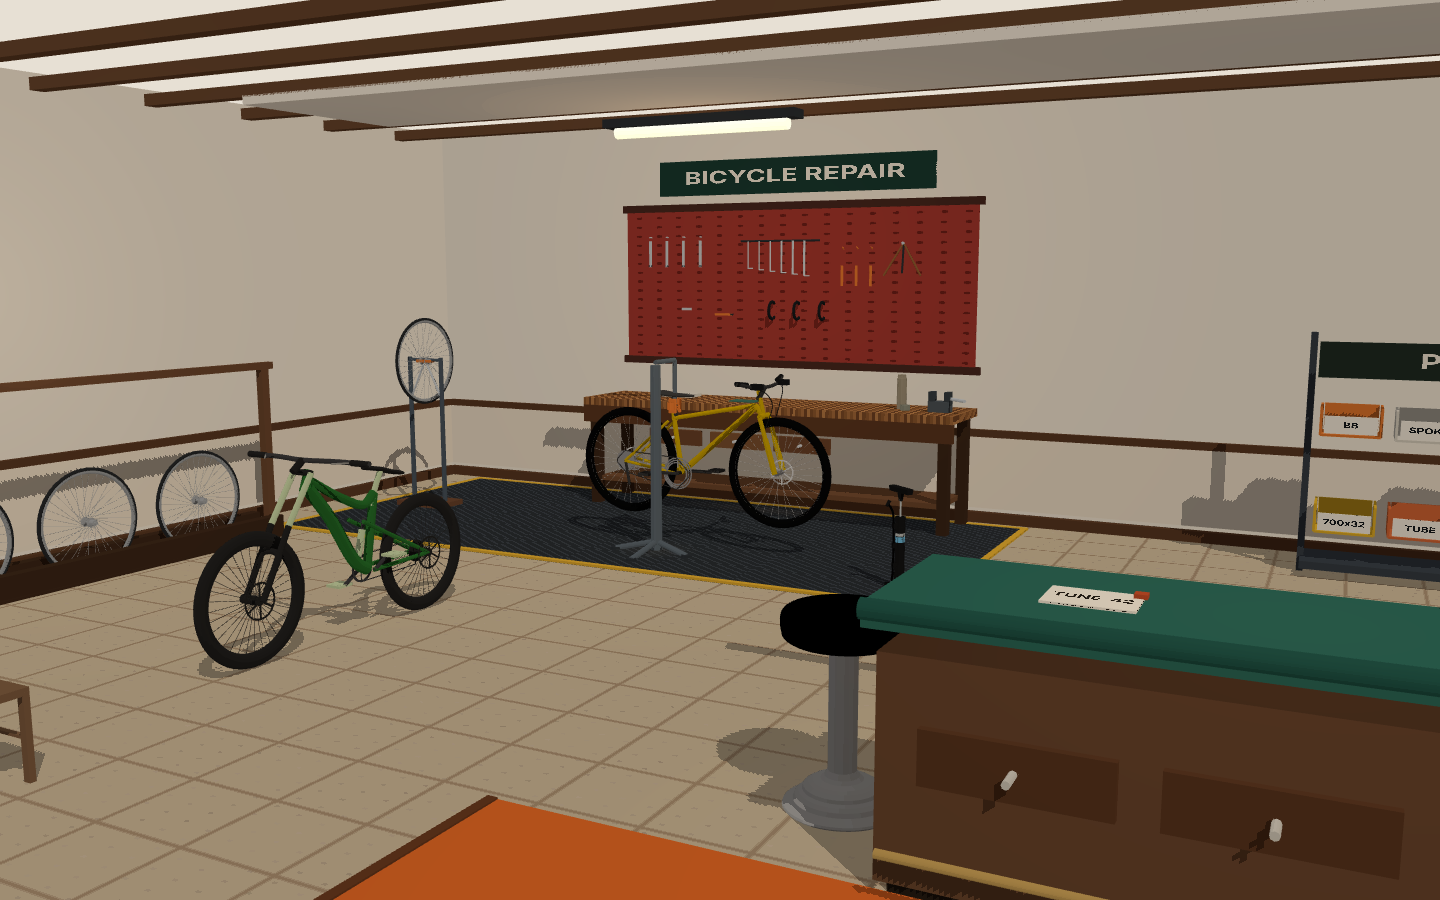
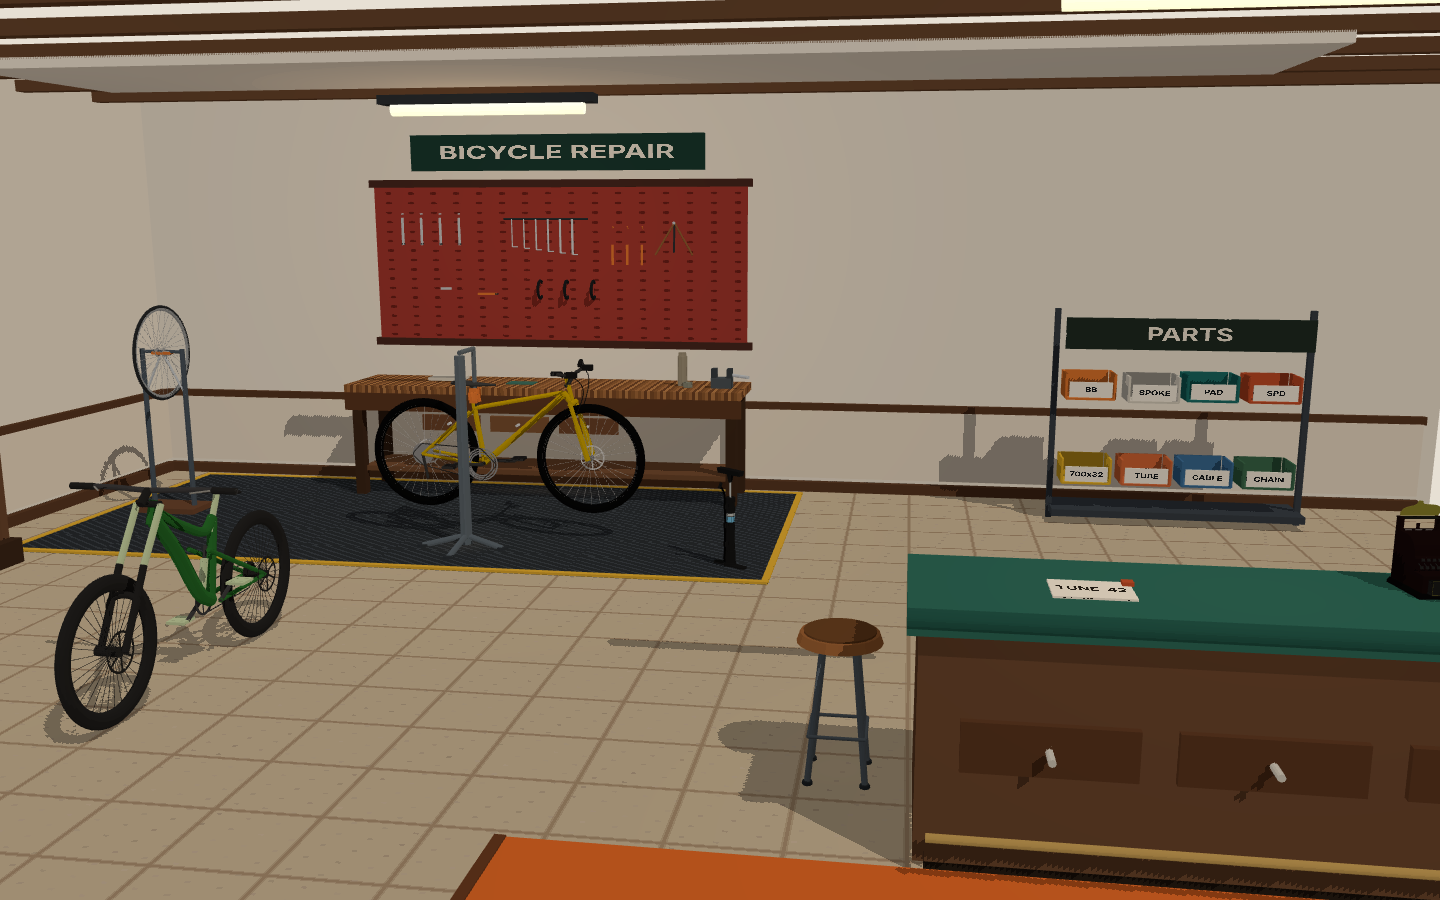
Replace the cafe stool and reframe the repair shots.
The staff perch is a four-leg shop stool at the counter return. The default view gives the repair bay and parts rack more of the frame, and the close view shows the seatpost clamp with both wheels.

diff --git a/experiments/indoor30-20261113/bicycle-repair/bicycle.js b/experiments/indoor30-20261113/bicycle-repair/bicycle.js
@@ -416,6 +416,35 @@ function bin(g, x, y, z, color, text) {
   tag.userData.noCast = true;
 }
 
+function shopStool(g, layout) {
+  const [x, , z] = layout.anchors.stool;
+  const stool = new THREE.Group();
+  stool.name = 'stool_staff';
+  const seatY = 0.58;
+  const wood = toon('#9a6236');
+  const rim = toon('#6a4324');
+  const steel = toon('#5c6770');
+  const dark = toon('#2c3136');
+  addCyl(stool, 0.158, 0.172, 0.04, wood, x, seatY, z, 24);
+  addCyl(stool, 0.145, 0.145, 0.012, rim, x, seatY + 0.022, z, 24);
+  const feet = [];
+  for (let i = 0; i < 4; i++) {
+    const a = (i / 4) * Math.PI * 2 + Math.PI / 4;
+    const top = [x + Math.cos(a) * 0.09, seatY - 0.02, z + Math.sin(a) * 0.09];
+    const foot = [x + Math.cos(a) * 0.16, 0.015, z + Math.sin(a) * 0.16];
+    rod(stool, top, foot, 0.013, steel, 8);
+    addCyl(stool, 0.02, 0.022, 0.014, dark, foot[0], 0.008, foot[2], 8);
+    feet.push(foot);
+  }
+  for (let i = 0; i < 4; i++) {
+    const a = feet[i];
+    const b = feet[(i + 1) % 4];
+    rod(stool, [a[0], 0.2, a[2]], [b[0], 0.2, b[2]], 0.007, steel, 6);
+  }
+  g.add(stool);
+  addContact(g, x, z, 0.4, 0.4, 0.14);
+}
+
 function serviceCounter(g, layout) {
   const c = layout.anchors.counter;
   const wood = toon('#5c3a24');
@@ -453,8 +482,9 @@ function makeProcedural(layout) {
   tireRack(g, layout);
   partsBins(g, layout);
   serviceCounter(g, layout);
+  shopStool(g, layout);
   for (const inst of layout.instances) {
-    if (inst.kind === 'dining_chair' || inst.kind === 'bar_stool') {
+    if (inst.kind === 'dining_chair') {
       addContact(g, inst.position[0], inst.position[2], 0.36, 0.36, 0.14);
     }
   }

diff --git a/experiments/indoor30-20261113/bicycle-repair/scene_lib.js b/experiments/indoor30-20261113/bicycle-repair/scene_lib.js
@@ -391,6 +391,10 @@ export async function boot(opts) {
     const p = presets[camKey];
     camera.position.set(...p.position);
     controls.target.set(...p.target);
+    if (p.fov) {
+      camera.fov = p.fov;
+      camera.updateProjectionMatrix();
+    }
     controls.update();
   }
 

diff --git a/experiments/indoor30-20261113/bicycle-repair/tests/test_layout.py b/experiments/indoor30-20261113/bicycle-repair/tests/test_layout.py
@@ -75,7 +75,6 @@ def test_instances_inside():
         "wheel_truing",
         "wheel_rack_a",
         "pump",
-        "stool_staff",
         "chair_wait_a",
         "chair_wait_b",
         "register",
@@ -95,13 +94,11 @@ def test_seats_face_the_work():
         fx, fz = forward_visual(yaw)
         dot = (fx * dx + fz * dz) / math.hypot(dx, dz)
         assert dot > 0.7, (chair_id, round(dot, 3))
-    staff = by_id["stool_staff"]
-    assert abs(abs(staff["rotationY"]) - math.pi) < 0.05
-    sx, _, sz = staff["position"]
-    tx, tz = staff["faces"]
-    assert tz > sz
-    # Counter is on the +X side of the waiting chairs.
+    # Shop stool is the staff perch at the counter return, off the customer runner.
     counter = LAYOUT["anchors"]["counter"]
+    stool = LAYOUT["anchors"]["stool"]
+    assert stool[0] < counter["x"] - 0.8
+    assert abs(stool[2] - counter["z"]) < 0.8
     assert counter["x"] > by_id["chair_wait_a"]["position"][0] + 1.5
 
 
@@ -117,10 +114,12 @@ def test_customer_route():
     assert runner["x0"] <= x0 <= runner["x1"]
     assert runner["z0"] <= z1 and z0 <= runner["z1"]
     half = route["width"] / 2
-    for inst in LAYOUT["instances"]:
-        x, _, z = inst["position"]
+    blocked = [(inst["id"], inst["position"]) for inst in LAYOUT["instances"]]
+    blocked.append(("stool_staff", LAYOUT["anchors"]["stool"]))
+    for name, pos in blocked:
+        x, _, z = pos
         if z1 - 0.3 <= z <= z0 + 0.2 and abs(x - x0) < half:
-            raise AssertionError(f"{inst['id']} sits in the customer route")
+            raise AssertionError(f"{name} sits in the customer route")
     stand = LAYOUT["anchors"]["stand"]
     clamp = LAYOUT["anchors"]["clamp"]
     assert abs(stand["x"] - x0) > 1.4

diff --git a/experiments/indoor30-20261113/bicycle-repair/ATTRIBUTIONS.md b/experiments/indoor30-20261113/bicycle-repair/ATTRIBUTIONS.md
@@ -12,10 +12,9 @@ Baked here:
 Referenced, not copied:
 
 - **Wooden Dining Chair** (`objaverse-5e1f7a56da4a4dab8ad64efd46ed9d9f`) — by vikki0612, CC-BY-4.0. `library/assets/dining_chair__5e1f7a56da4a.glb`
-- **bar_stool** — "Bar stool lowpoly" by vaporclaws, [Sketchfab](https://sketchfab.com/3d-models/319fcb56afe845caae5464b129c99633), CC-BY-4.0. `cafe/assets/bar_stool__319fcb56afe8.glb`
 - **pendant_lamp** — "Modern ceiling lamp" by krolzuzannapl, [Sketchfab](https://sketchfab.com/3d-models/1b528c6ab04e42f990105db142cd71bd), CC-BY-4.0. `cafe/assets/pendant_lamp__1b528c6ab04e.glb`
 - **cash_register** — cafe bake, Sandflow/sand3d-objaverse, CC-BY. `cafe/assets/cash_register__870f6ebb115a.glb`
 - **thermos** — "Thermos" by Platon_Debik, [Sketchfab](https://sketchfab.com/3d-models/c85ee7b8828b44998bb1cec3971424ec), CC-BY-4.0. `cafe/assets/thermos__c85ee7b8828b.glb`
 - **flowerpot** — "Flowerpot" by thespaceman, [Sketchfab](https://sketchfab.com/3d-models/4a270f2477344b55b359e2913f5530f2), CC-BY-4.0. `cafe/assets/flowerpot__4a270f247734.glb`
 
-The stand, pegboard, bins, counter, rack frame, and floor are original geometry in `bicycle.js`.
+The stand, pegboard, bins, counter, rack frame, shop stool, and floor are original geometry in `bicycle.js`. The catalog stool is a cafe tulip pedestal, so the staff perch is a four-leg shop stool.

diff --git a/experiments/indoor30-20261113/bicycle-repair/README.md b/experiments/indoor30-20261113/bicycle-repair/README.md
@@ -2,7 +2,7 @@
 
 Cutaway shop for a full-size bike on a repair stand, a second bike parked off the aisle, a spoked wheel in a truing stand, a wall rack of wheels, a pegboard, open parts bins, a floor pump, and a service counter. The orange runner is the customer route from the open front to the counter. The rubber mat is the work bay.
 
-Catalog chairs, the stool, the register, the thermos, the plant, and the counter pendant are referenced from `library/` and `cafe/`. Three.js is the shared `workshop/vendor` copy. The four shop GLBs in `assets/` were baked here from Sandflow programs. They are not copies of other scenes.
+Catalog chairs, the register, the thermos, the plant, and the counter pendant are referenced from `library/` and `cafe/`. The staff perch is a shop stool built in this scene. Three.js is the shared `workshop/vendor` copy. The four shop GLBs in `assets/` were baked here from Sandflow programs. They are not copies of other scenes.
 
 ## Open
 

diff --git a/experiments/indoor30-20261113/bicycle-repair/refs/GAP.md b/experiments/indoor30-20261113/bicycle-repair/refs/GAP.md
@@ -24,3 +24,4 @@ Still procedural, because the catalog has no mesh for them:
 - Contact shadows are warm discs. Walls do not receive the shadow map, so plaster does not pick up acne.
 - The toon ramp's darkest stop is about 0.42. Unlit mode is basic materials with the shadow map disabled.
 - The counter pendant is a cafe shade. A second pendant over the bench was removed because it covered the pegboard.
+- The only catalog stool is the cafe tulip pedestal (`cafe/assets/bar_stool__319fcb56afe8.glb`). The staff seat is a four-leg shop stool in `bicycle.js`, not that pedestal.
